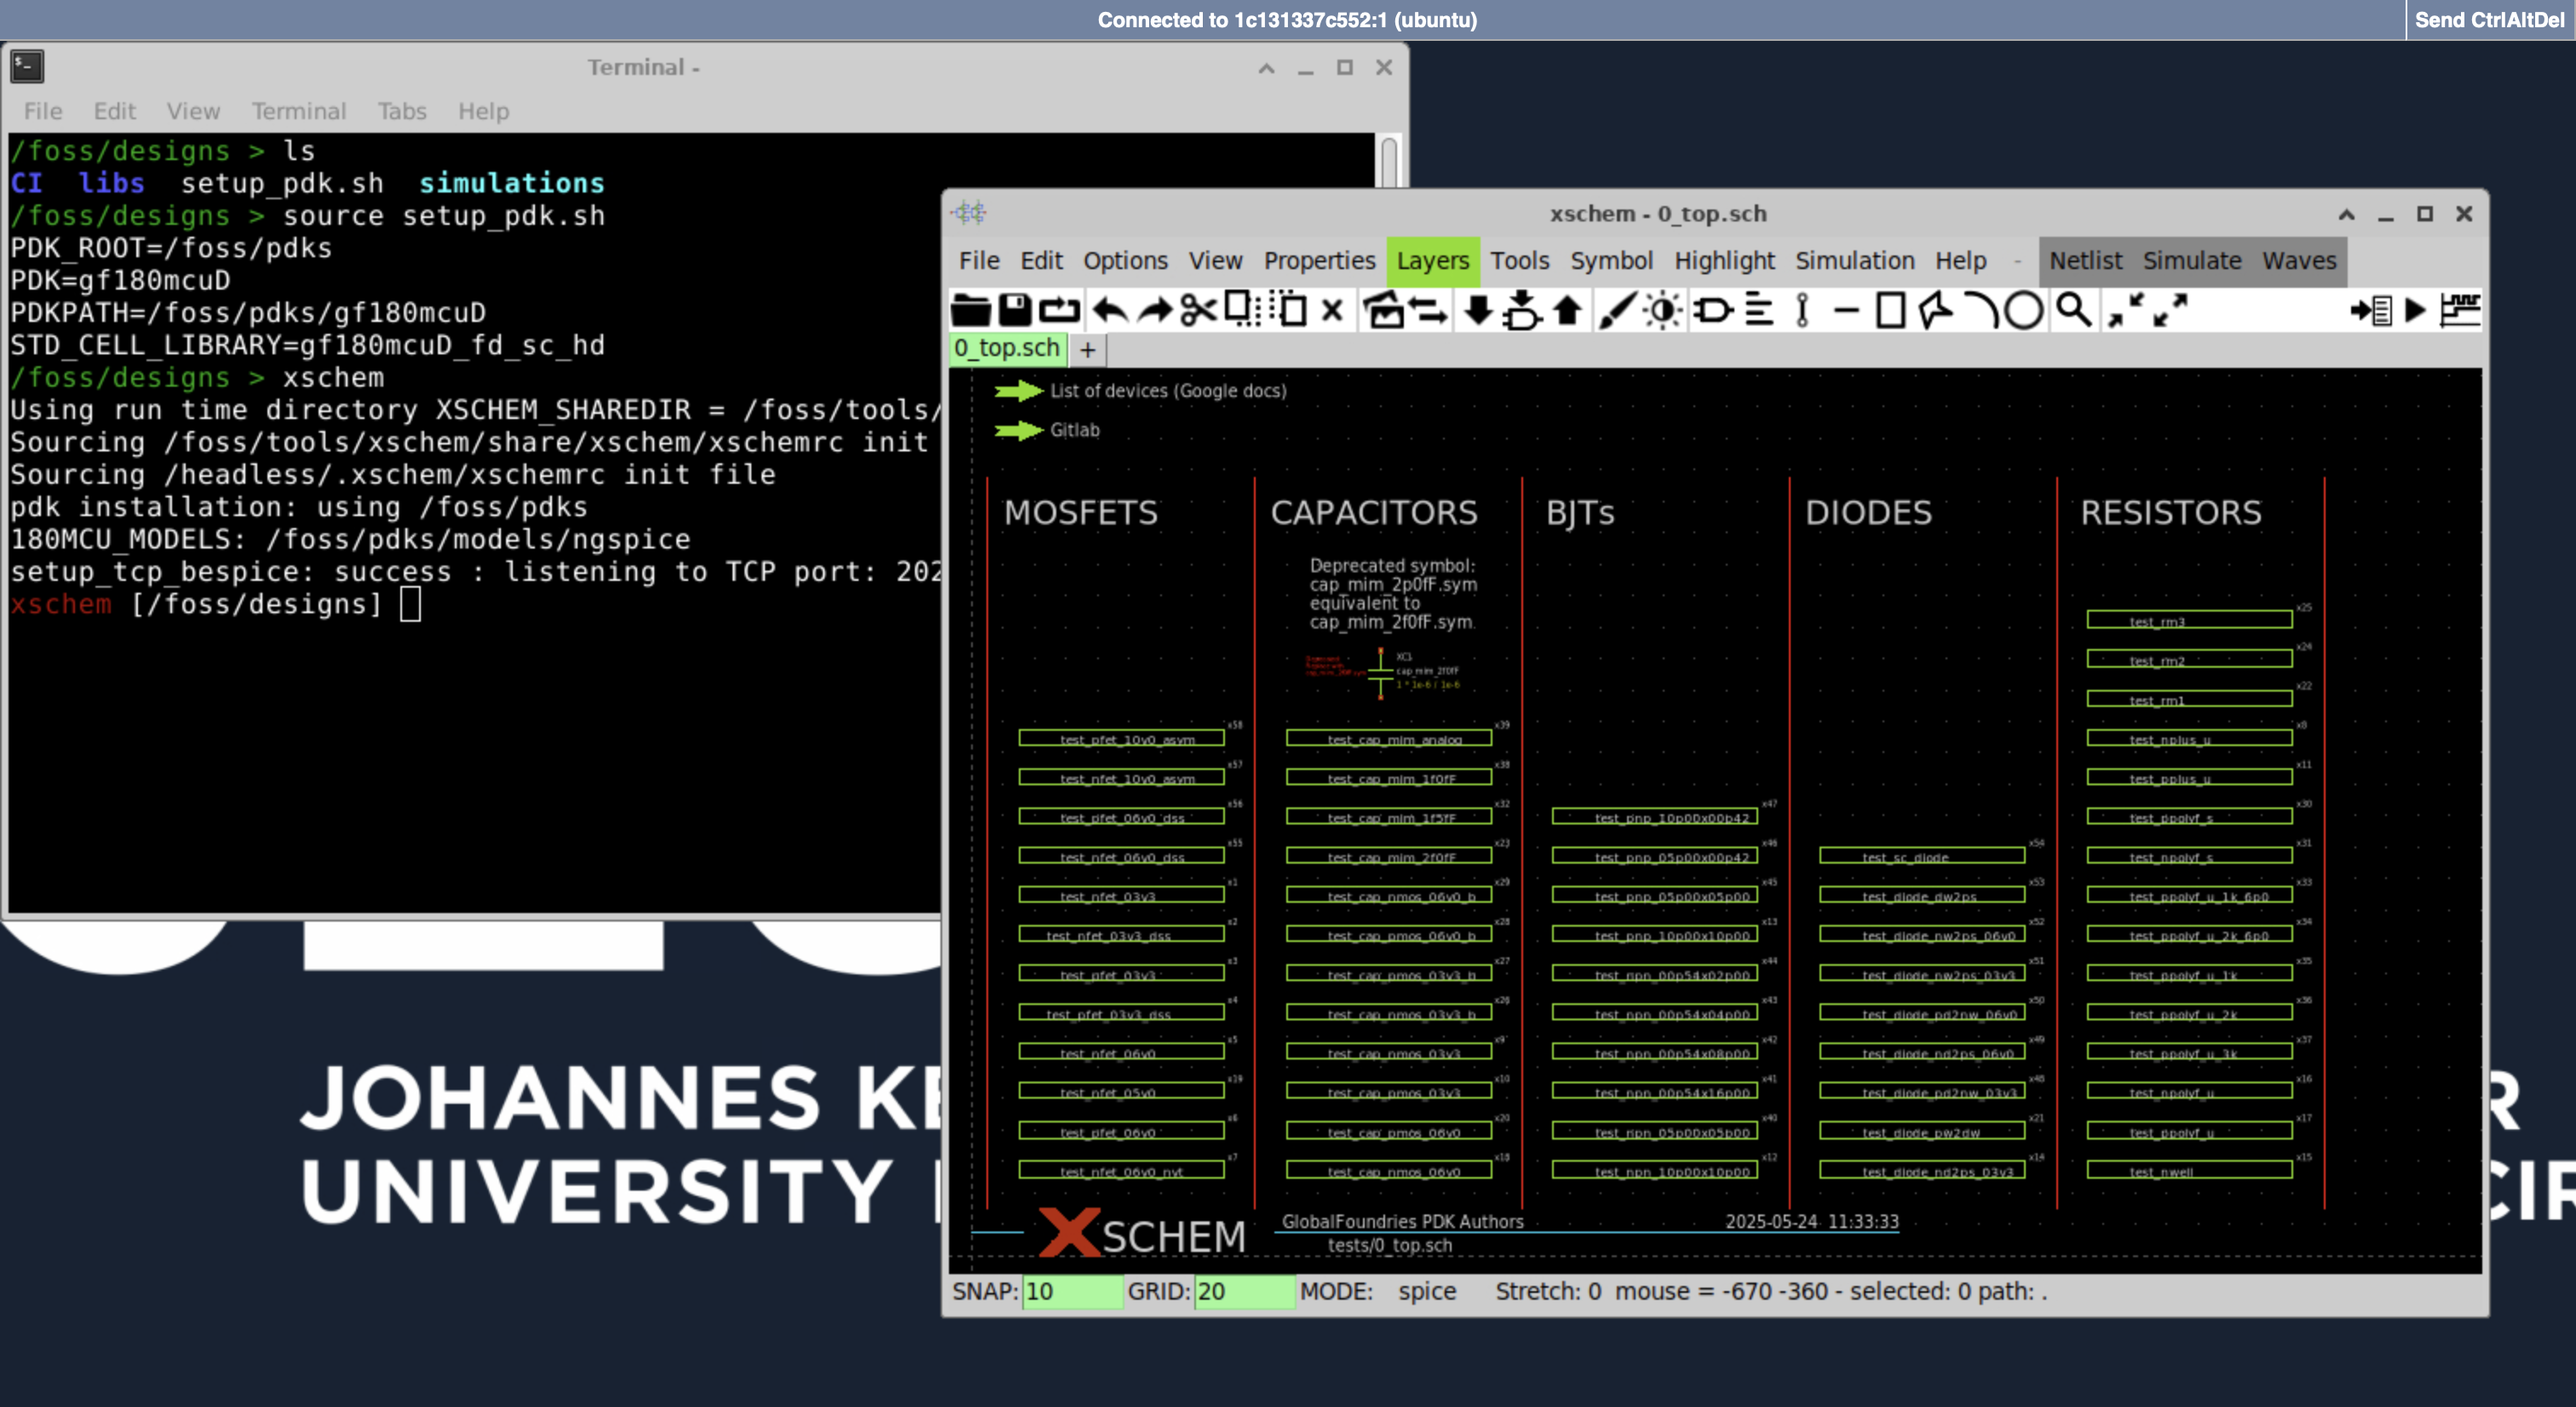
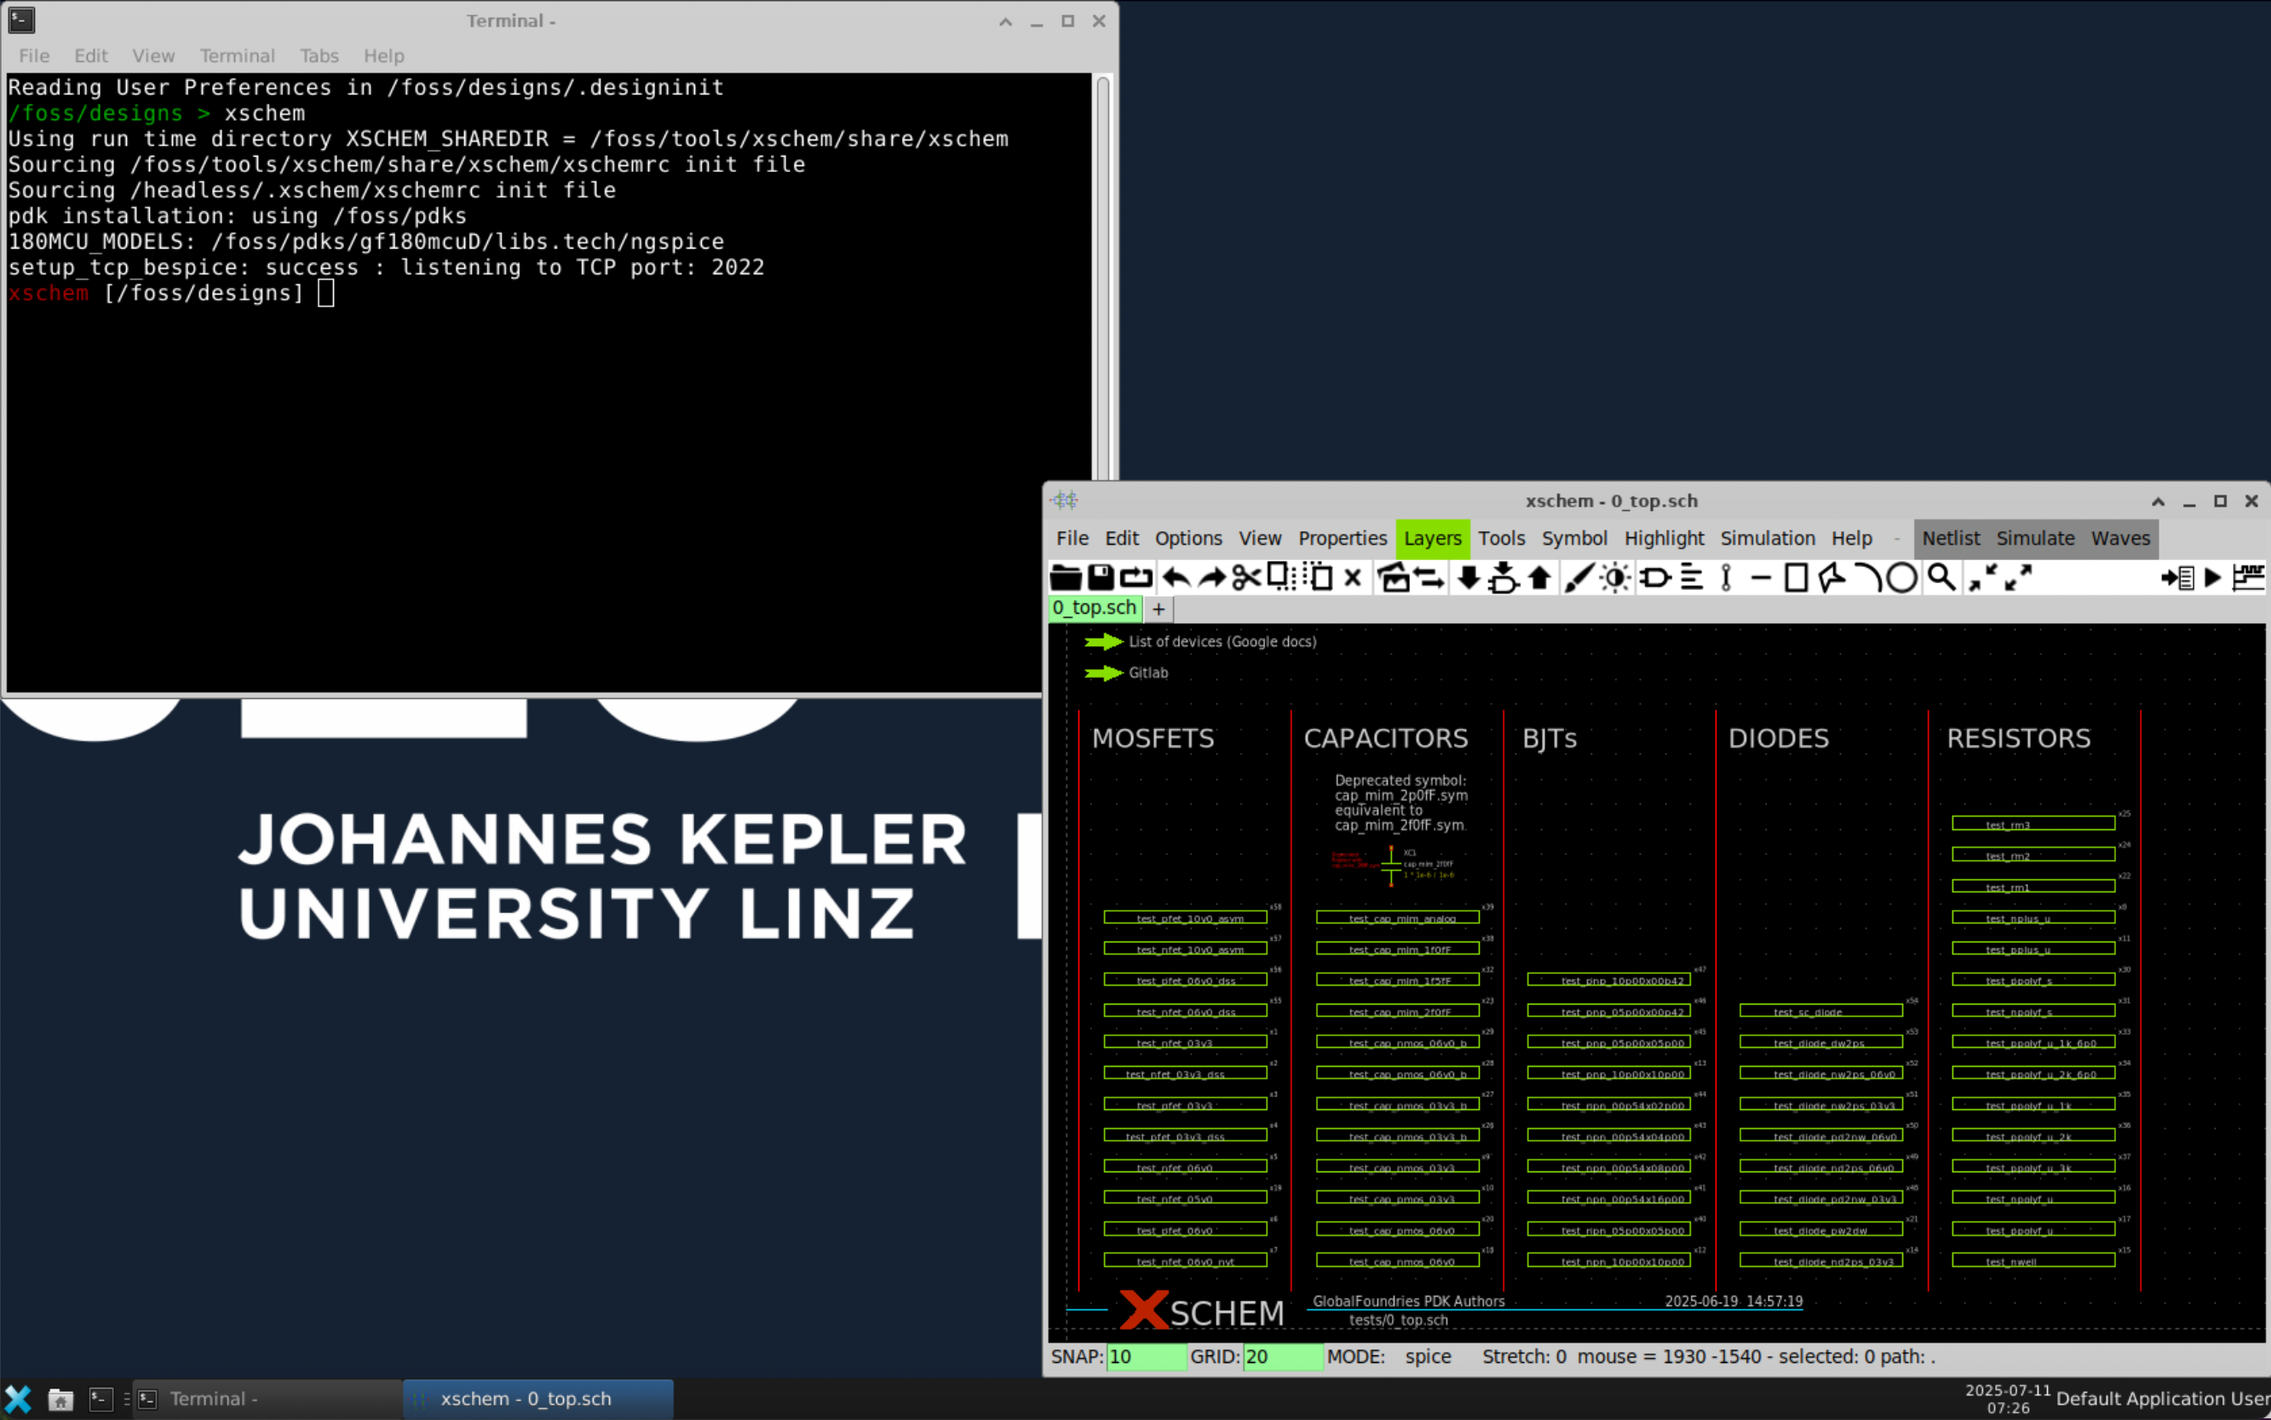
update `README.md`, new screenshots for xschem and klayout

diff --git a/README.md b/README.md
@@ -1,25 +1,21 @@
 # IIC-OSIC-TOOLS Analog Design Project Template (GlobalFoundries 180nm)
 
-This repository is a project template for the IIC-OSIC-TOOLS (https://github.com/iic-jku/IIC-OSIC-TOOLS) analog design workflow for the SSCS 2025 Chipathon, preconfigured for the GlobalFoundries 180nm PDK (gf180mcuD).
+This repository is an analog design project template for the SSCS 2025 Chipathon (https://github.com/sscs-ose/sscs-chipathon-2025). The design environment is setup using the IIC-OSIC-TOOLS docker container (https://github.com/iic-jku/IIC-OSIC-TOOLS). The container is preconfigured with GlobalFoundries 180nm PDK (gf180mcuD).
 
 ## What's Included
 
 When you use this template, you get:
-
 - **Pre-configured Docker environment** with IIC-OSIC-TOOLS and GlobalFoundries 180nm PDK
-- **Cross-platform scripts** for launching the containerized design environment
-- **Example analog design** (5-Transistor OTA) with proper library structure and testbench
-- **Library organization standards** with validation scripts
 - **VNC and web-based GUI access** for design tools like Xschem, Ngspice, Magic, and KLayout
-
+- **Cross-platform scripts** for launching the containerized design environment
+- **Example analog schematic and layout design** (5-Transistor OTA) with proper library structure and testbench
 
 ## CAD Tool Computing Constellation
 First, review [this document](https://github.com/mosbiuschip/chipathon2025/tree/main/CAD_tool_computing_constellation) to get a sense of how the various pieces of software work together on your computer. 
 
-## Required S/W on Your Computer
+## Required Software on Your Computer
 
 Before you begin, you'll need to install the following required software:
-
 
 ### 1. GitHub Desktop
 
@@ -39,7 +35,8 @@ You don't have to know how to use the `git` command. Although learning it helps 
 - **Linux**: [Docker Desktop for Linux](https://docs.docker.com/desktop/install/linux-install/) or [Docker Engine](https://docs.docker.com/engine/install/)
 
 **System Requirements:**
-- **Windows**: Windows 10/11 with WSL2 enabled
+- **Windows**: Windows 10/11 with WSL 2 enabled  
+  > **Note:** Windows Subsystem for Linux (WSL 2) provides the lightweight virtualization layer that Docker Desktop relies on for Linux containers. If WSL 2 is not yet installed on your machine, follow Microsoft’s official guide: <https://learn.microsoft.com/windows/wsl/install>. After WSL 2 is enabled, Docker Desktop will automatically detect it; see Docker’s documentation for details: <https://docs.docker.com/desktop/windows/wsl/>.
 - **macOS**: macOS 10.15 or newer
 - **Linux**: 64-bit distribution with kernel 3.10+
 
@@ -48,15 +45,12 @@ In this project we will be using the IIC-OSIC-TOOLS docker (https://github.com/i
 
 ## Getting Started: Team Environment Setup
 
-### GitHub Collaborative Team Workflow (WIP)
-- team leader create the main project repo with template. (step 1)
-- each team member clones the repo
-- each team member starts their own feature branch ("feat-ota", "feat-ldo", "feat-padframe", etc.) 
-- **NOBODY** should develop on main. Only merge clean pull request.
-- don't be shy and commit often! (even when things are not completely working)
-- when the feature branches are ready, create a pull request (PR)
-- review the PR with the team, after which team leader merge the branch.
-- create branch -> develop -> pull request -> merge and delete branch -> (repeat)
+### GitHub Collaborative Team Workflow
+For the detailed branching and pull-request process see **[docs/team_workflow.md](docs/team_workflow.md)**.
+
+In brief:
+- The **team leader** creates the repository from this template and adds teammates as collaborators.
+- Every contributor works on a dedicated feature branch and opens a pull request for review before merging into `main`.  
 
 ### Step 1: Create Your Project Repository
 
@@ -142,31 +136,28 @@ Once you're in the VNC session, you can start running the design tools in the co
 
 ![Desktop context menu with Terminal Emulator option](docs/screenshots/open_a_terminal.png)
 
-### Step 5: Setup PDK Environment
-
-Run the following command inside the terminal within the VNC session to set up the GlobalFoundries 180nm PDK:
-
-```bash
-source setup_pdk.sh
-```
-
-![Terminal showing PDK setup completion](docs/screenshots/setup_pdk.png)
-
-*Note:* <mark>You need do `source setup_pdk.sh` for *every* new terminal you open.</mark>
-
-### Step 6: Launch Design Tools
+### Step 5: Launch Design Tools
 
 You can now start the design tools from the terminal. 
 
 #### Schematic Entry
 
-E.g., launch Xschem for schematic design:
+Launch Xschem for schematic design:
 ```bash
 xschem
 ```
 You should see the Xschem GUI with available devices from `gf180mcu` and their testbenches. Xschem has UI buttons to netlist and simulate your schematic. You can display results in Xschem or GAW (an external viewer).
 
 ![Xschem interface with PDK libraries loaded](docs/screenshots/start_xschem.png)
+
+#### Layout
+
+Launch Klayout for layout design:
+```bash
+./scripts/klayout_start.sh
+```
+![KLayout](docs/screenshots/start_klayout.png)
+
 
 #### Other Tools
 You can launch the other design tools with their appropriate commands. Take a look at [this document](https://github.com/mosbiuschip/chipathon2025/tree/main/CAD_tool_flow) for a brief overview of the analog full custom design CAD flow. 
@@ -210,9 +201,8 @@ The `/foss/designs` directory inside the Docker container is mounted from the `d
 project-root/
 ├── designs/                 # Your design files (mounted in container as /foss/designs)
 │   ├── libs/                   # Design libraries
-│   ├── simulations/            # Simulation results
-│   ├── setup_pdk.sh            # PDK setup script
-│   └── CI                      # scripts for library maintenance
+│   ├── simulations/            # Symbolic link to the Xschem simulation result folder
+│   └── scripts                 # scripts for launching tools and library maintenance
 ├── start_chipathon_vnc.sh   # Container launch script (Unix/Linux/Mac)
 ├── start_chipathon_vnc.bat  # Container launch script (Windows)
 └── README.md                # This file

diff --git a/docs/team_workflow.md b/docs/team_workflow.md
@@ -1,0 +1,76 @@
+# Team Development Workflow
+
+> **Key principle:** Only the **team leader** creates the repository from this template. All other members clone that repository and work as collaborators.
+
+---
+
+## 1. Repository Creation (Team Leader)
+1. Click **“Use this template”** on the template repository page.
+2. Configure the new repository (name, visibility, description).
+3. After creation, go to **Settings → Collaborators & teams** and add all teammates with *Write* access.
+
+## 2. Cloning the Repository (All Members)
+```bash
+# Replace USER/REPO with your team’s GitHub path
+git clone https://github.com/USER/REPO.git
+cd REPO
+```
+
+## 3. Branching Model
+- **Never** develop directly on `main`.
+- Create a **feature** branch for each task:
+  ```bash
+  git checkout -b feat-ota              # example feature
+  git checkout -b fix-docs-typos        # example bug-fix
+  ```
+- Keep branch names short and descriptive (`feat-*`, `fix-*`, `docs-*`, etc.).
+
+## 4. Development Cycle
+1. Make code/schematic changes in your feature branch.
+2. Commit early and often:
+   ```bash
+   git add <files>
+   git commit -m "docs: add OTA biasing note"
+   ```
+3. Push your branch to GitHub:
+   ```bash
+   git push -u origin feat-ota
+   ```
+
+## 5. Opening a Pull Request (PR)
+1. On GitHub, click **“Compare & pull request.”**
+2. Fill in the template (description, screenshots, etc.).
+3. Request at least one teammate for review.
+4. Resolve feedback → update branch → re-push.
+5. When approved, the team leader (or assigned maintainer) merges the PR into `main`.
+
+## 6. Keeping Branches Up-to-Date
+Before opening or while working on a PR, sync with the latest `main` to avoid conflicts:
+```bash
+git fetch origin
+git rebase origin/main      # or `git merge origin/main`
+```
+
+## 7. Cleaning Up After Merge
+```bash
+git checkout main
+git pull                     # get the latest main
+# delete merged branch locally & on GitHub
+git branch -d feat-ota
+git push origin --delete feat-ota
+```
+
+## 8. Continuous Integration (CI) *(optional)*
+If CI checks (lint, tests, DRC/ERC scripts) fail, fix them on your branch and push again. Only merge when all checks pass.
+
+---
+
+### Quick Reference Flow
+```
+main ─┐
+      ├─► feat-abc ──► PR ──┐
+      ├─► feat-def ──► PR ──┼─► main
+      └─► fix-xyz  ──► PR ──┘
+```
+
+Stick to this workflow to keep your history clean, changes reviewable, and teammates in sync. 
